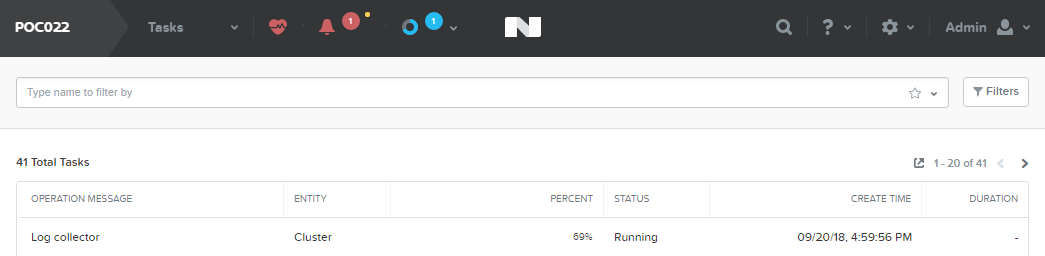
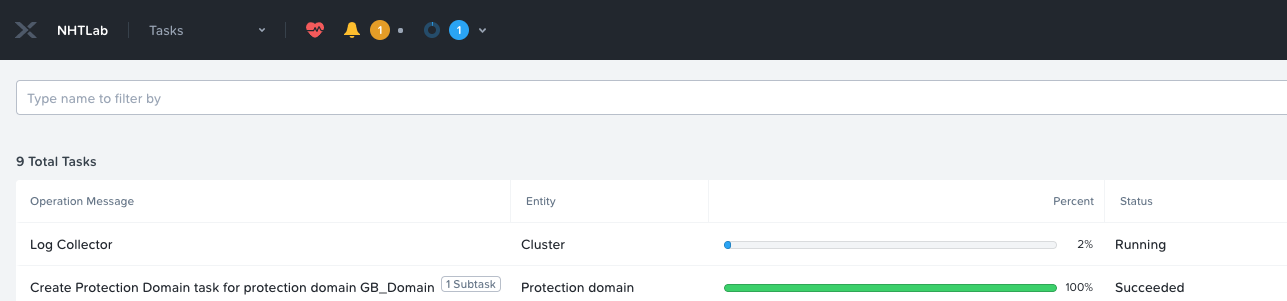
Updated to 5.16.x version

diff --git a/ncc-ui/ncc-ui.rst b/ncc-ui/ncc-ui.rst
@@ -57,7 +57,7 @@ Open **Prism > Health** and click **Actions > Run Checks**.
 
 .. note::
 
-  NCC can also be configured to run every 4 hours, daily, or weekly and the results will be e-mailed to all **E-mail Recipients** defined in **Alert E-mail Configuration** in cluster settings.
+  As this is a shared cluster, it can be that the option is grayed out, not selectable. This means that one of your other trainees has clicked the button before you. Wait till the Blue Donut Icon (top of the screen) turn Green/Red. After that color change, you should be able to run the NCC Check. NCC can also be configured to run every 4 hours, daily, or weekly and the results will be e-mailed to all **E-mail Recipients** defined in **Alert E-mail Configuration** in cluster settings.
 
 Select **All Checks**. De-select **Send the cluster check report in the email**. Click **Run**.
 
@@ -99,11 +99,15 @@ Log Collector
 
 Log into **Prism** on your 3-node **POC** cluster (10.21.\ *XYZ*\ .37).
 
-Open **Prism > Health** and click **Actions > Log Collector**.
+Open **Prism > Health** and click **Actions > Collect Logs**.
 
 .. figure:: images/1.png
 
-Select **Collect Logs starting now** and use the default collection period of 4 hours. Click **Run Now**.
+Click on the **+ Select Nodes** button and select all nodes you see and click the **Done** button. In step 2, click leave everything default and click **Next**. In the last step, change the *Select Duration...* to **4** Hours. Leave the rest default and click **Collect** to start the collection of the logs
+
+.. figure:: images/2.png
+
+Select **Collect Logs starting now** and use the default collection period of 4 hours. Click **Collect**.
 
 .. note::
 
@@ -113,7 +117,7 @@ Select **Prism > Tasks** and wait for the **Log collector** to reach 100%.
 
 .. figure:: images/6.png
 
-Click **Succeeded** under Status to download the **NCC-logs-YYYY-MM-DD-TIME.tar** file.
+Click **Succeeded** under Status to download the **NCC-logs-YYYY-MM-DD-TIME-PE.zip** file.
 
 .. note::
 
@@ -121,6 +125,6 @@ Click **Succeeded** under Status to download the **NCC-logs-YYYY-MM-DD-TIME.tar*
 
   To obtain a Log Collector bundle with anonymized data, connect to any CVM via SSH and executing the following command:
 
-  ``nutanix@CVM$ ncc log_collector --anonymize_output=True``
+  ``nutanix@CVM$ ncc log_collector --anonymize_output=True`` or use the Anonymization checkbox in the screen where you clicked on the **Collect** button
 
   Refer to `KB1406 <https://portal.nutanix.com/#/page/kbs/details?targetId=kA0600000008cPfCAI>`_ for complete details command line execution.
